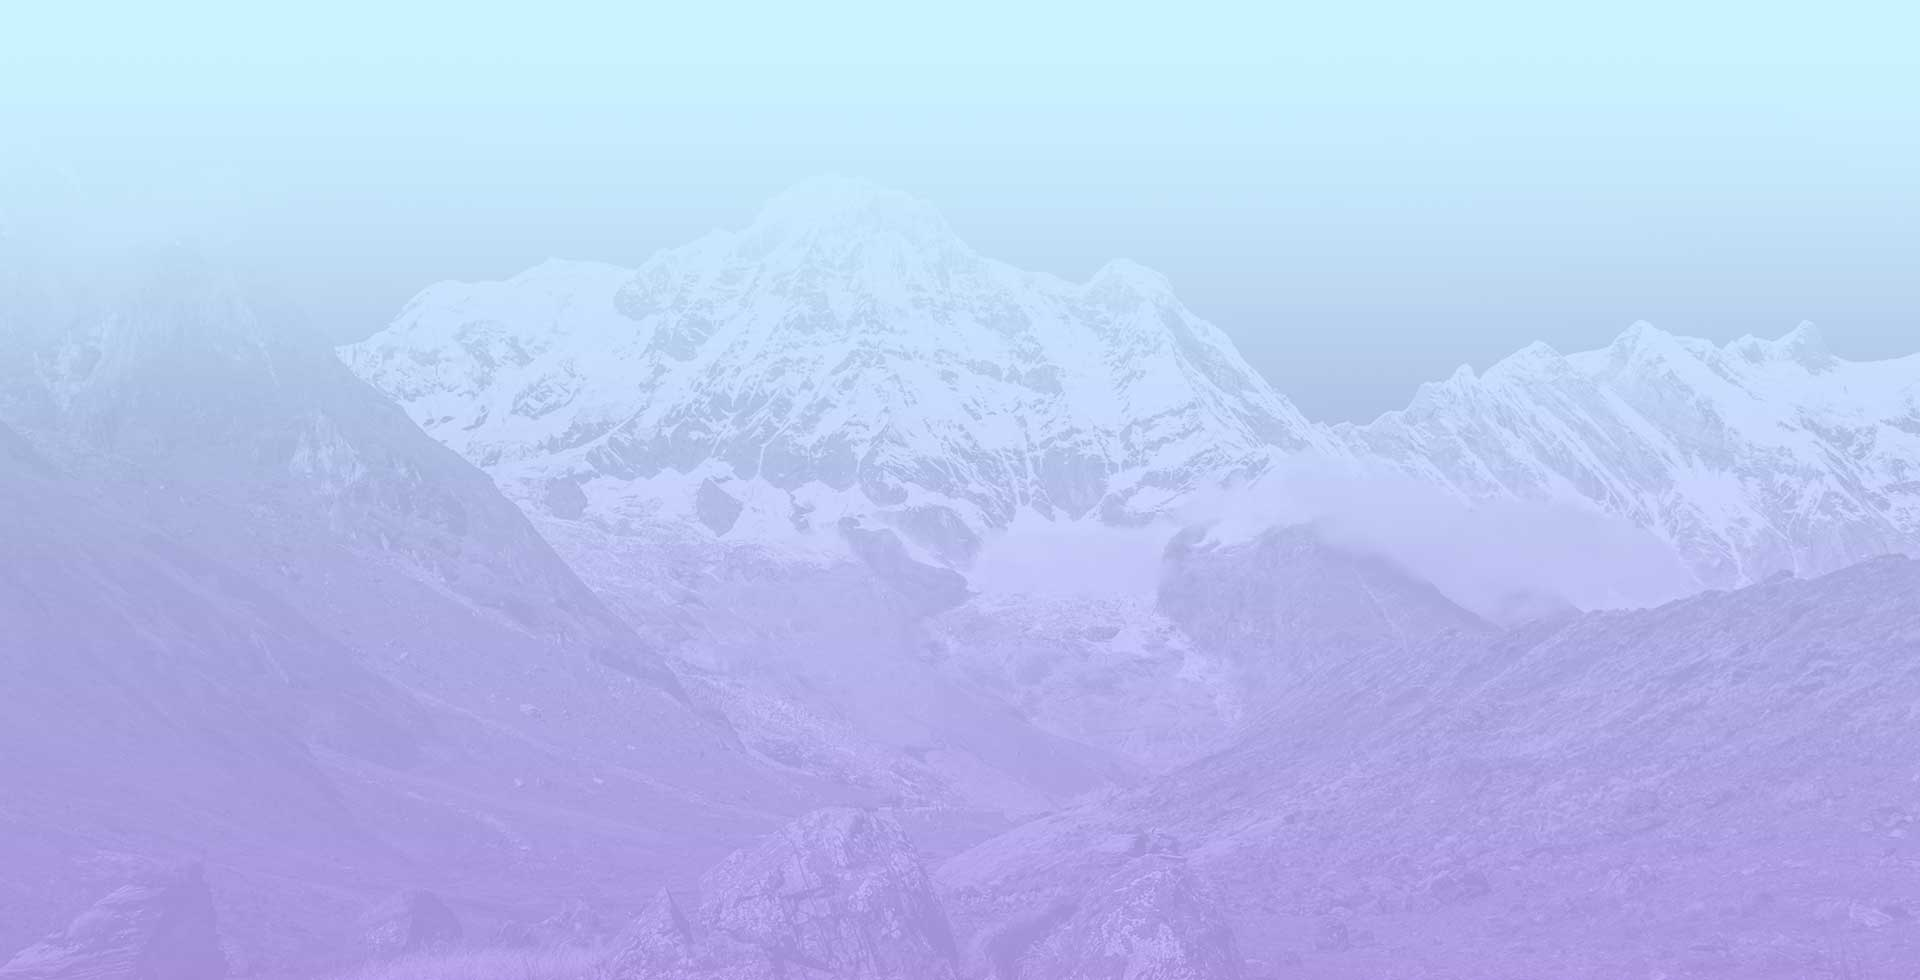
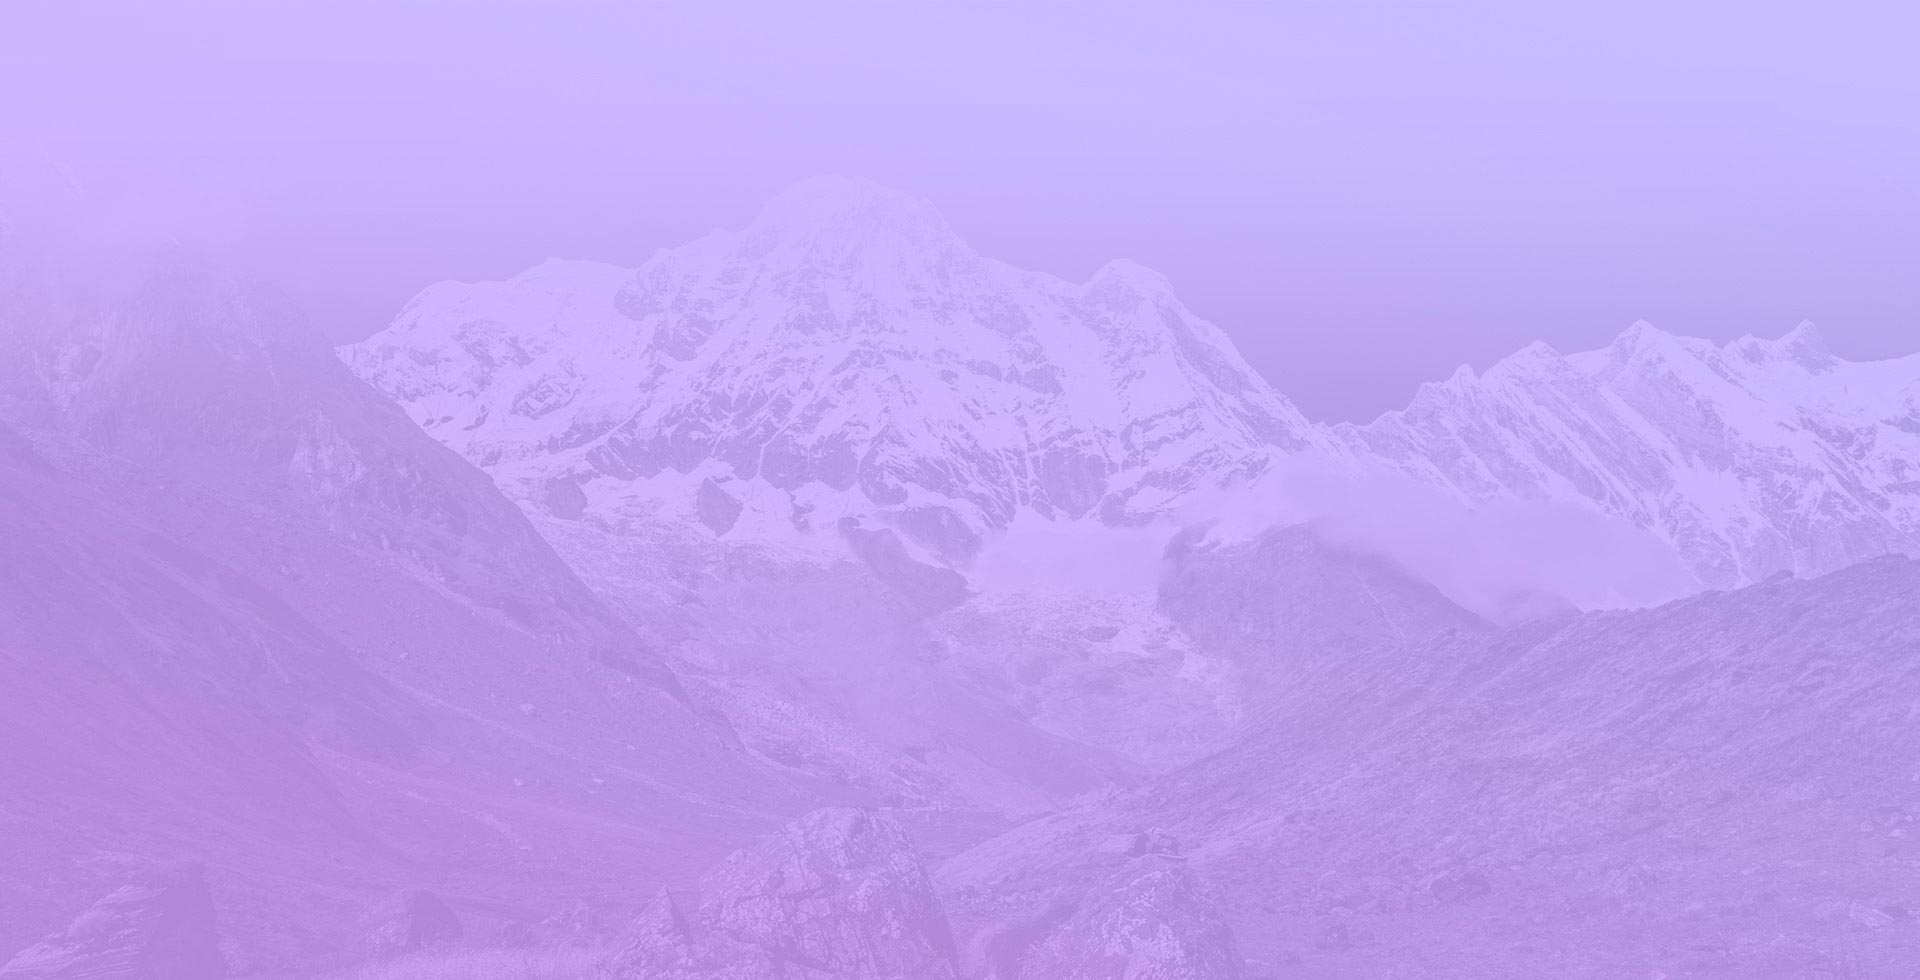
FE-625: Updated backgrounds.

diff --git a/src/communicator/initialize.ts b/src/communicator/initialize.ts
@@ -1,16 +1,17 @@
 import { RealTransport } from './real-transport';
 import { Transport } from './transport';
 import { log } from './log';
+import { Constants } from './constants';
 
 export const initialize = (target: Window, origin: string, transportName: string, isLog: boolean = false): Promise<Transport> => {
-    let interval: NodeJS.Timer;
+    let interval: number;
     return new Promise((resolve, reject) => {
         const reply = (e: any) => {
-            if (e.data === 'communicator-listener-hand') {
+            if (e.data === Constants.listenerHandName) {
                 if (isLog) {
                     log('initializer receive listener hand');
                 }
-                clearInterval(interval);
+                window.clearInterval(interval);
                 window.removeEventListener('message', reply, false);
                 return resolve(new RealTransport(target, origin, transportName));
             }
@@ -19,7 +20,7 @@ export const initialize = (target: Window, origin: string, transportName: string
         let attempt = 0;
         const doSend = () => {
             attempt++;
-            target.postMessage('communicator-initializer-hand', origin);
+            target.postMessage(Constants.initializerHandName, origin);
             if (isLog) {
                 log('initializer send handshake attempt');
             }
@@ -28,6 +29,6 @@ export const initialize = (target: Window, origin: string, transportName: string
                 return reject('communicator handshake failed');
             }
         };
-        interval = setInterval(doSend, 500);
+        interval = window.setInterval(doSend, 500);
     });
 };

diff --git a/src/initializer/iframe-initializer.ts b/src/initializer/iframe-initializer.ts
@@ -1,6 +1,7 @@
 import { IframeContainer } from './iframe-container';
 import { Initializer } from './initializer';
 import { initialize } from '../communicator';
+import { CommunicatorEvents, communicatorInstanceName } from '../communicator-constants';
 
 export class IframeInitializer extends Initializer {
 
@@ -14,15 +15,15 @@ export class IframeInitializer extends Initializer {
     open() {
         const target = (window.frames as any)[this.container.getName()];
         this.container.show();
-        initialize(target, this.origin, 'checkout-initializer').then((transport) => {
+        initialize(target, this.origin, communicatorInstanceName).then((transport) => {
             this.opened();
-            transport.emit('checkout-init', this.config);
-            transport.on('checkout-finished', () => {
+            transport.emit(CommunicatorEvents.init, this.config);
+            transport.on(CommunicatorEvents.finished, () => {
                 transport.destroy();
                 this.container.reinitialize();
                 this.finished();
             });
-            transport.on('checkout-close', () => {
+            transport.on(CommunicatorEvents.close, () => {
                 transport.destroy();
                 this.close();
             });

diff --git a/src/initializer/popup-initializer.ts b/src/initializer/popup-initializer.ts
@@ -1,5 +1,6 @@
 import { Initializer } from './initializer';
 import { initialize } from '../communicator';
+import { CommunicatorEvents, communicatorInstanceName } from '../communicator-constants';
 
 const serialize = (params: any): string => {
     let urlParams = '';
@@ -23,13 +24,13 @@ export class PopupInitializer extends Initializer {
     open() {
         const url = `${this.origin}/v1/checkout.html?${serialize(this.config)}`;
         const target = window.open(url);
-        initialize(target, this.origin, 'checkout-initializer').then((transport) => {
+        initialize(target, this.origin, communicatorInstanceName).then((transport) => {
             this.opened();
-            transport.on('checkout-finished', () => {
+            transport.on(CommunicatorEvents.finished, () => {
                 transport.destroy();
                 this.finished();
             });
-            transport.on('checkout-close', () => {
+            transport.on(CommunicatorEvents.close, () => {
                 transport.destroy();
                 this.close();
             });

diff --git a/src/app/initialize.ts b/src/app/initialize.ts
@@ -4,18 +4,19 @@ import { isInFrame } from '../is-in-iframe';
 import { getOrigin } from '../get-origin';
 import { StubTransport } from './stub-transport';
 import { Config, resolveInitConfig } from 'checkout/config';
+import { CommunicatorEvents, communicatorInstanceName } from '../communicator-constants';
 
 const isUriContext = !!location.search;
 
 const handleInit = (transport: Transport) => new Promise((resolve) =>
-    transport.on('checkout-init', (config) => resolve(config)));
+    transport.on(CommunicatorEvents.init, (config) => resolve(config)));
 
 const listenAndCatch = () =>
-    listen('checkout-initializer', window.opener ? 2000 : 0)
+    listen(communicatorInstanceName, window.opener ? 2000 : 0)
         .catch(() => new StubTransport());
 
 const resolveCommunicatorParams = () =>
-    listen('checkout-initializer')
+    listen(communicatorInstanceName)
         .then((transport) => Promise.all([
             transport,
             handleInit(transport)

diff --git a/src/app/finalize.ts b/src/app/finalize.ts
@@ -3,6 +3,7 @@ import { State } from './state';
 import { ResultState } from 'checkout/state';
 import { isSafetyUrl } from 'checkout/utils';
 import { Transport } from '../communicator';
+import { CommunicatorEvents } from '../communicator-constants';
 
 class AppFinalizer {
 
@@ -11,14 +12,14 @@ class AppFinalizer {
 
     close() {
         ReactDOM.unmountComponentAtNode(this.checkoutEl);
-        this.transport.emit('checkout-close');
+        this.transport.emit(CommunicatorEvents.close);
         this.transport.destroy();
     }
 
     done(redirectUrl: string, inFrame: boolean) {
         setTimeout(() => {
             ReactDOM.unmountComponentAtNode(this.checkoutEl);
-            this.transport.emit('checkout-finished');
+            this.transport.emit(CommunicatorEvents.finished);
             this.transport.destroy();
             if (inFrame) {
                 redirectUrl && isSafetyUrl(redirectUrl) ? location.replace(redirectUrl) : window.close();

diff --git a/src/communicator/listen.ts b/src/communicator/listen.ts
@@ -1,6 +1,7 @@
 import { RealTransport } from './real-transport';
 import { Transport } from './transport';
 import { log } from './log';
+import { Constants } from './constants';
 
 const timeout = (ms: number): Promise<Transport> =>
     new Promise((resolve, reject) => {
@@ -13,9 +14,9 @@ const timeout = (ms: number): Promise<Transport> =>
 const handleHandshake = (transportName: string, isLog: boolean = false): Promise<Transport> =>
     new Promise((resolve) => {
         const shake = (e: MessageEvent) => {
-            if (e && e.data === 'communicator-initializer-hand') {
+            if (e && e.data === Constants.initializerHandName) {
                 const target = e.source;
-                target.postMessage('communicator-listener-hand', e.origin);
+                target.postMessage(Constants.listenerHandName, e.origin);
                 if (isLog) {
                     log('listener receive initializer hand');
                 }

diff --git a/src/communicator/real-transport.ts b/src/communicator/real-transport.ts
@@ -4,9 +4,7 @@ const parse = (data: any): any => {
     let parsed;
     try {
         parsed = JSON.parse(data);
-        /* tslint:disable:no-empty */
-    } catch (e) {
-    }
+    } catch (e) {} // tslint:disable-line:no-empty
     return parsed;
 };
 

diff --git a/src/communicator-constants.ts b/src/communicator-constants.ts
@@ -1,0 +1,7 @@
+export const communicatorInstanceName = 'checkout-initializer';
+
+export enum CommunicatorEvents {
+    init = 'checkout-init',
+    finished = 'checkout-finished',
+    close = 'checkout-close'
+}

diff --git a/src/communicator/constants.ts b/src/communicator/constants.ts
@@ -1,0 +1,4 @@
+export enum Constants {
+    initializerHandName = 'communicator-initializer-hand',
+    listenerHandName = 'communicator-listener-hand'
+}
